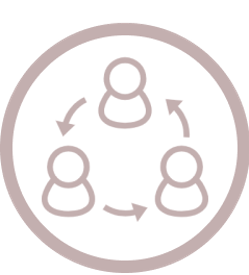
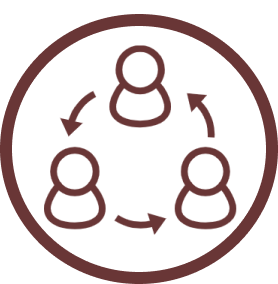
welcome画面のデザインを変更

Changed region(s): [[0.0, 0.0291, 1.0, 1.0]]

diff --git a/lib/welcome.dart b/lib/welcome.dart
@@ -1,58 +1,154 @@
 import 'package:flutter/material.dart';
 
-import 'login.dart';
-
 class Welcome extends StatelessWidget {
-  //const MyApp({Key? key}) : super(key: key);
+  const Welcome({Key? key}) : super(key: key);
+
   @override
   Widget build(BuildContext context) {
     return Scaffold(
-      appBar: PreferredSize(
-        preferredSize: const Size.fromHeight(250),
-        child: AppBar(
-            title: Image.asset(
-              'images/icon.png',
-              height: 60,
-              width: 60,
-            ),
-            backgroundColor: const Color(0xFFD1EEF3),
-            shape: const RoundedRectangleBorder(
-              borderRadius: BorderRadius.vertical(
-                bottom: Radius.circular(48.0),
+      body: Column(
+        children: [
+          const Expanded(flex: 2, child: _TopPortion()),
+          Expanded(
+            flex: 3,
+            child: Padding(
+              padding: const EdgeInsets.all(8.0),
+              child: Column(
+                children: [
+                  Text(
+                    "選択してください",
+                    style: TextStyle(color: Color(0xFF696636)),
+                  ),
+                  const SizedBox(height: 16),
+                  Row(
+                    mainAxisAlignment: MainAxisAlignment.spaceEvenly,
+                    children: [
+                      ElevatedButton(
+                        style: ElevatedButton.styleFrom(
+                          primary: Color(0xFFD1EEF3),
+                          onPrimary: Color(0xFF696636),
+                        ),
+                        onPressed: () {},
+                        child: const Text('ルームを作る'),
+                      ),
+                      ElevatedButton(
+                        style: ElevatedButton.styleFrom(
+                          primary: const Color(0xFFD1EEF3),
+                          onPrimary: const Color(0xFF696636),
+                        ),
+                        onPressed: () {},
+                        child: const Text('ルームに入る'),
+                      ),
+                    ],
+                  ),
+                  //const SizedBox(height: 16),
+                  //const _ProfileInfoRow()
+                ],
               ),
-            )),
+            ),
+          ),
+        ],
       ),
-      body: Center(
-          child: Column(
+    );
+  }
+}
+
+class _ProfileInfoRow extends StatelessWidget {
+  const _ProfileInfoRow({Key? key}) : super(key: key);
+
+  final List<ProfileInfoItem> _items = const [
+    ProfileInfoItem("Posts", 900),
+    ProfileInfoItem("Followers", 120),
+    ProfileInfoItem("Following", 200),
+  ];
+
+  @override
+  Widget build(BuildContext context) {
+    return Container(
+      height: 80,
+      constraints: const BoxConstraints(maxWidth: 400),
+      child: Row(
+        mainAxisAlignment: MainAxisAlignment.spaceEvenly,
+        children: _items
+            .map((item) => Expanded(
+                    child: Row(
+                  children: [
+                    if (_items.indexOf(item) != 0) const VerticalDivider(),
+                    Expanded(child: _singleItem(context, item)),
+                  ],
+                )))
+            .toList(),
+      ),
+    );
+  }
+
+  Widget _singleItem(BuildContext context, ProfileInfoItem item) => Column(
         mainAxisAlignment: MainAxisAlignment.center,
         children: [
-          const Text(
-            '選択してください',
-            style: TextStyle(color: Color(0xFF696636)),
+          Padding(
+            padding: const EdgeInsets.all(8.0),
+            child: Text(
+              item.value.toString(),
+              style: const TextStyle(
+                fontWeight: FontWeight.bold,
+                fontSize: 20,
+              ),
+            ),
           ),
-          Row(
-            mainAxisAlignment: MainAxisAlignment.spaceEvenly,
-            children: [
-              ElevatedButton(
-                style: ElevatedButton.styleFrom(
-                  primary: Color(0xFFD1EEF3),
-                  onPrimary: Color(0xFF696636),
-                ),
-                onPressed: () {},
-                child: const Text('ルームを作る'),
-              ),
-              ElevatedButton(
-                style: ElevatedButton.styleFrom(
-                  primary: const Color(0xFFD1EEF3),
-                  onPrimary: const Color(0xFF696636),
-                ),
-                onPressed: () {},
-                child: const Text('ルームに入る'),
-              ),
-            ],
+          Text(
+            item.title,
+            style: Theme.of(context).textTheme.caption,
           )
         ],
-      )),
+      );
+}
+
+class ProfileInfoItem {
+  final String title;
+  final int value;
+  const ProfileInfoItem(this.title, this.value);
+}
+
+class _TopPortion extends StatelessWidget {
+  const _TopPortion({Key? key}) : super(key: key);
+
+  @override
+  Widget build(BuildContext context) {
+    return Stack(
+      fit: StackFit.expand,
+      children: [
+        Container(
+          margin: const EdgeInsets.only(bottom: 50),
+          decoration: const BoxDecoration(
+              color: Color(0xFFD1EEF3),
+              borderRadius: BorderRadius.only(
+                bottomLeft: Radius.circular(50),
+                bottomRight: Radius.circular(50),
+              )),
+        ),
+        Align(
+          alignment: Alignment.bottomCenter,
+          child: SizedBox(
+            width: 120,
+            height: 120,
+            child: Stack(
+              fit: StackFit.expand,
+              children: [
+                Container(
+                  decoration: const BoxDecoration(
+                    color: Colors.black,
+                    shape: BoxShape.circle,
+                    image: DecorationImage(
+                      fit: BoxFit.fitWidth,
+                      image: AssetImage('images/icon.png'),
+                    ),
+                  ),
+                ),
+              ],
+            ),
+          ),
+        )
+      ],
     );
   }
 }
